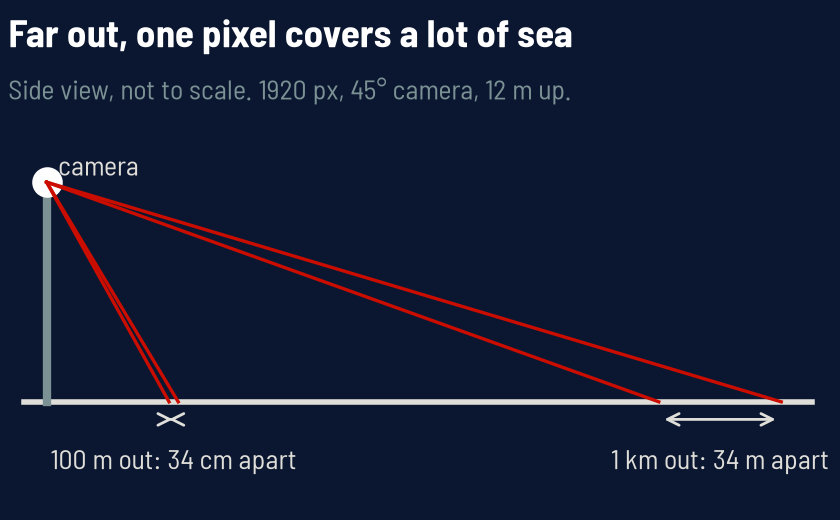
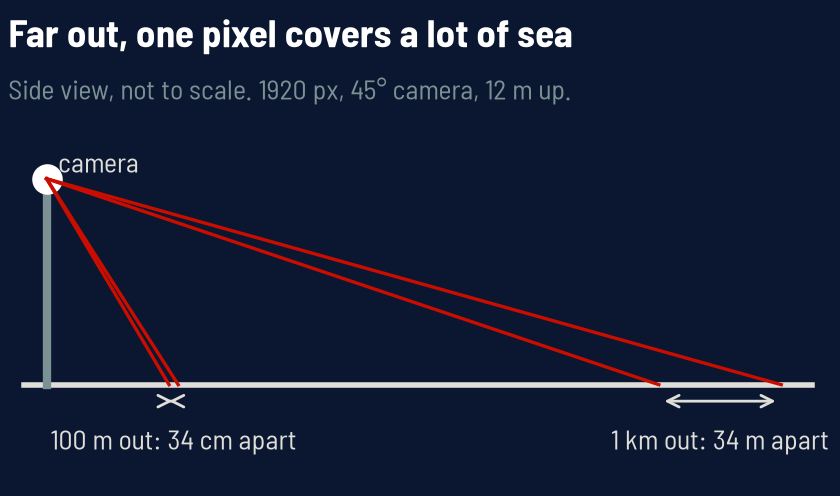
docs: the rays chart at the crops' aspect, so the pair sits at one height
Claude-Session: https://claude.ai/code/session_01Ecgti8s4UQ6WWBMa2RYxh5

diff --git a/docs/primer/charts.py b/docs/primer/charts.py
@@ -179,8 +179,9 @@ def hidden(ax: Axes, t: dict) -> None:
     ax.set_ylabel("height hidden by the sea, m")
 
 
-# Shown at half width beside the crops, so drawn smaller to keep its text legible.
-FIGSIZE = {"rays": (4.2, 2.6)}
+# Half width beside crops.jpg, so drawn smaller to keep its text legible, and at the
+# crops' aspect so the two sit at one height.
+FIGSIZE = {"rays": (4.2, 2.48)}
 CHARTS = {
     "glow": (
         "The sun glows in the visible, the sea in the thermal",
